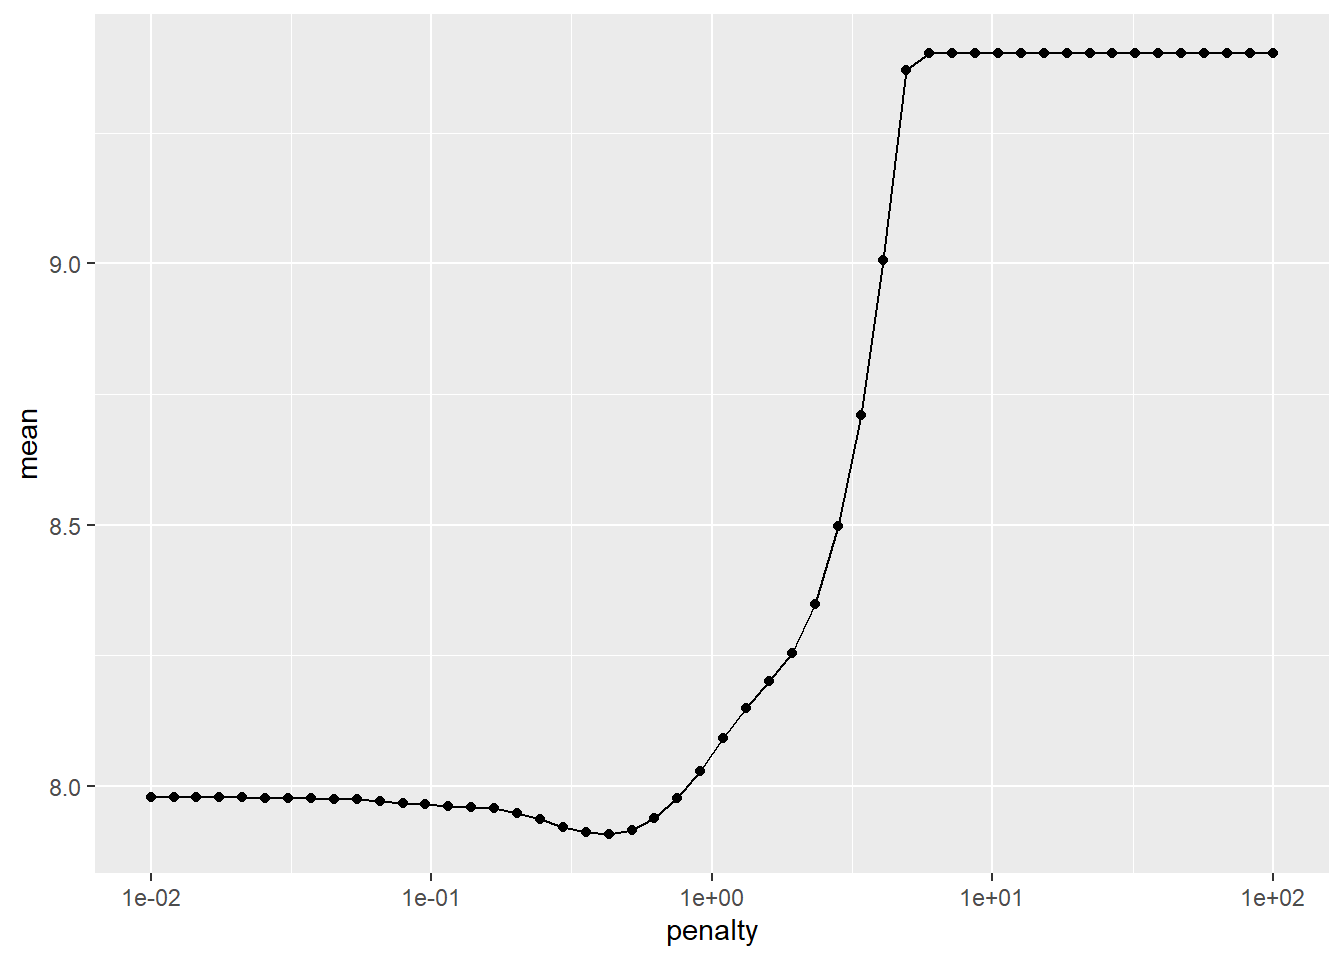
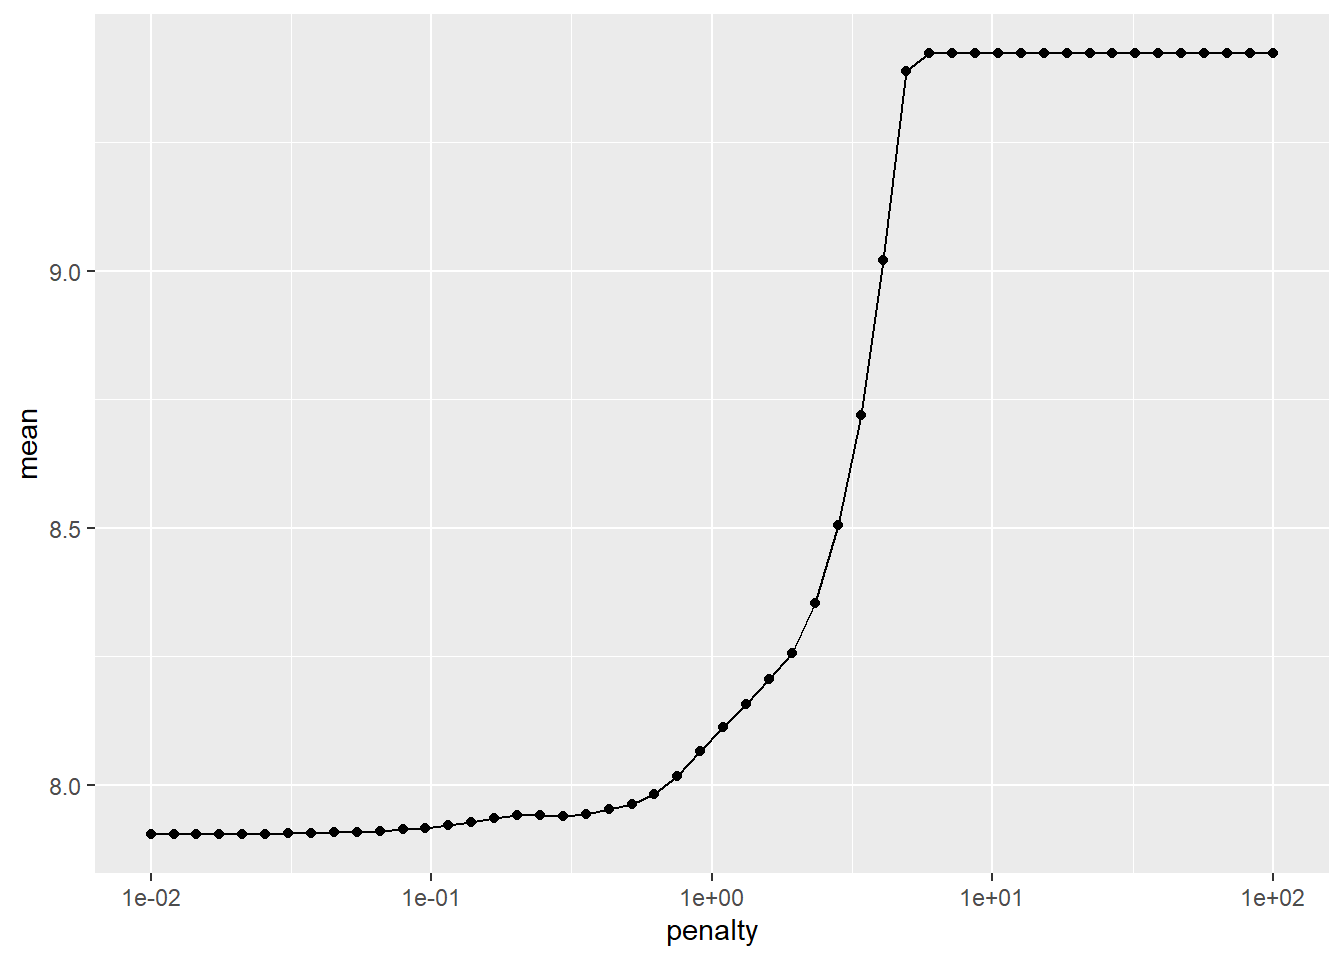
Updated linkin link

diff --git a/docs/FinalProject.html b/docs/FinalProject.html
@@ -682,7 +682,7 @@ New names:
 <pre><code># A tibble: 1 × 2
   penalty .config              
     &lt;dbl&gt; &lt;chr&gt;                
-1   0.429 Preprocessor1_Model21</code></pre>
+1    0.01 Preprocessor1_Model01</code></pre>
 </div>
 <div class="sourceCode cell-code" id="cb20"><pre class="sourceCode r code-with-copy"><code class="sourceCode r"><span id="cb20-1"><a href="#cb20-1" aria-hidden="true" tabindex="-1"></a>lasso_wflow_final <span class="ot">&lt;-</span> kcc_lasso_wflow <span class="sc">|&gt;</span></span>
 <span id="cb20-2"><a href="#cb20-2" aria-hidden="true" tabindex="-1"></a>  <span class="fu">finalize_workflow</span>(<span class="at">parameters =</span> lasso_best) </span></code><button title="Copy to Clipboard" class="code-copy-button"><i class="bi"></i></button></pre></div>
@@ -699,16 +699,16 @@ New names:
 <pre><code># A tibble: 10 × 3
    term        estimate penalty
    &lt;chr&gt;          &lt;dbl&gt;   &lt;dbl&gt;
- 1 (Intercept)   27.8     0.429
- 2 PtA            0       0.429
- 3 FirstD         0.675   0.429
- 4 TotYd          3.68    0.429
- 5 PassY          0       0.429
- 6 RushY          0.751   0.429
- 7 FirstD_Alwd    0.994   0.429
- 8 TotYd_Alwd     0       0.429
- 9 PassY_Alwd     0.568   0.429
-10 RushY_Alwd    -0.130   0.429</code></pre>
+ 1 (Intercept)   27.8      0.01
+ 2 PtA           -1.02     0.01
+ 3 FirstD         1.12     0.01
+ 4 TotYd          3.89     0.01
+ 5 PassY          0        0.01
+ 6 RushY          0.966    0.01
+ 7 FirstD_Alwd    2.08     0.01
+ 8 TotYd_Alwd     0        0.01
+ 9 PassY_Alwd     0.813    0.01
+10 RushY_Alwd    -0.500    0.01</code></pre>
 </div>
 </div>
 <p>Here we can see that important variables include Points Allowed (PtA), First Down Count (FirstD), Total Yards (TotYd), total Rusing Yards (RushY), First Downs Allowed (FirstD_Alwd), Passing Yards Allowed (PassY_Alwd) and Rushing Yards Allowed (RushY_Alwd). We will proceed to use these variables in our following models.</p>

diff --git a/_site/blog/third-post/index.html b/_site/blog/third-post/index.html
@@ -132,8 +132,8 @@ pre > code.sourceCode > span > a:first-child::before { text-decoration: underlin
 <span class="menu-text">Home</span></a>
   </li>  
   <li class="nav-item">
-    <a class="nav-link" href="../../Fnal Project.html"> 
-<span class="menu-text">Replace this with an interesting title</span></a>
+    <a class="nav-link" href="../../FinalProject.html"> 
+<span class="menu-text">Shake It Off-ense: A Statitistical Study On Taylor Swifts Influence On The Kansas City Chiefs</span></a>
   </li>  
 </ul>
           </div> <!-- /navcollapse -->

diff --git a/_site/blog/first-post/index.html b/_site/blog/first-post/index.html
@@ -99,8 +99,8 @@ ul.task-list li input[type="checkbox"] {
 <span class="menu-text">Home</span></a>
   </li>  
   <li class="nav-item">
-    <a class="nav-link" href="../../Fnal Project.html"> 
-<span class="menu-text">Replace this with an interesting title</span></a>
+    <a class="nav-link" href="../../FinalProject.html"> 
+<span class="menu-text">Shake It Off-ense: A Statitistical Study On Taylor Swifts Influence On The Kansas City Chiefs</span></a>
   </li>  
 </ul>
           </div> <!-- /navcollapse -->

diff --git a/_site/blog/second-post/index.html b/_site/blog/second-post/index.html
@@ -99,8 +99,8 @@ ul.task-list li input[type="checkbox"] {
 <span class="menu-text">Home</span></a>
   </li>  
   <li class="nav-item">
-    <a class="nav-link" href="../../Fnal Project.html"> 
-<span class="menu-text">Replace this with an interesting title</span></a>
+    <a class="nav-link" href="../../FinalProject.html"> 
+<span class="menu-text">Shake It Off-ense: A Statitistical Study On Taylor Swifts Influence On The Kansas City Chiefs</span></a>
   </li>  
 </ul>
           </div> <!-- /navcollapse -->

diff --git a/_site/projects/index.html b/_site/projects/index.html
@@ -154,8 +154,8 @@ window.Quarto = {
 <span class="menu-text">Home</span></a>
   </li>  
   <li class="nav-item">
-    <a class="nav-link" href="../Fnal Project.html"> 
-<span class="menu-text">Replace this with an interesting title</span></a>
+    <a class="nav-link" href="../FinalProject.html"> 
+<span class="menu-text">Shake It Off-ense: A Statitistical Study On Taylor Swifts Influence On The Kansas City Chiefs</span></a>
   </li>  
 </ul>
           </div> <!-- /navcollapse -->

diff --git a/docs/index.html b/docs/index.html
@@ -128,7 +128,7 @@ ul.task-list li input[type="checkbox"] {
     <i class="bi bi-github"></i>
      <span class="about-link-text">Github</span>
   </a>
-  <a href="/www.linkedin.com/in/caleb-vander-wall-6687902b7" class="about-link" rel="" target="">
+  <a href="https://www.linkedin.com/in/caleb-vander-wall-6687902b7/" class="about-link" rel="" target="">
     <i class="bi bi-linkedin"></i>
      <span class="about-link-text">Linkedin</span>
   </a>
